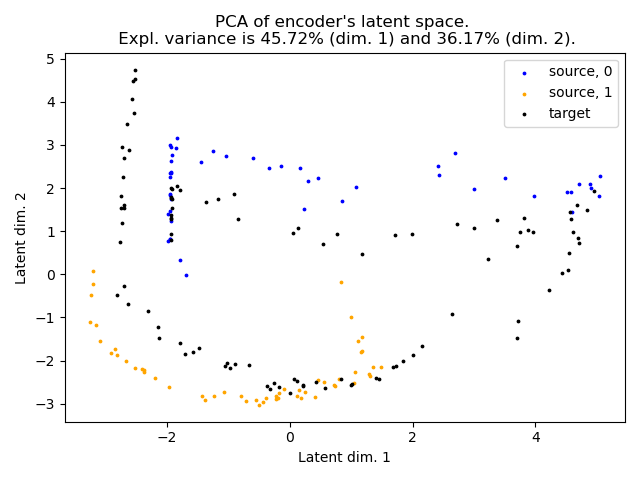
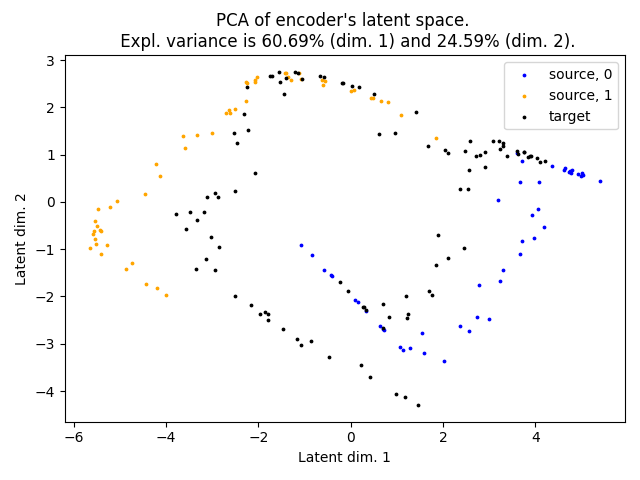
Bug fixes

diff --git a/core.py b/core.py
@@ -39,12 +39,13 @@ def train_src(encoder, classifier, src_data_loader):
 
             # Compute training loss
             loss = criterion(input=y_pred_batch.squeeze(), target=y_true_batch)
-            losses_within_epoch.append(loss.item())
 
             # Backpropagation
             optimizer.zero_grad()
             loss.backward(inputs=optim_params)
             optimizer.step()
+
+            losses_within_epoch.extend([loss.item()] * len(y_true_batch)) # Michiel: let's assume len(y_true_batch) is equal to batch size
         
         losses_across_epochs.append(np.mean(np.array(losses_within_epoch)))
         
@@ -79,14 +80,15 @@ def eval(encoder, classifier, data_loader, print_output: bool = True):
 
             # Predict source samples on classifier
             y_pred_batch = classifier(features).squeeze()
-            y_pred_batch = torch.where(y_pred_batch >= 0.5, 1, 0).to(dtype=torch.float32)
 
             # Compute training loss
             loss = criterion(input=y_pred_batch, target=y_true_batch)
-            losses.append(loss.item())
+            y_pred_batch = torch.where(y_pred_batch >= 0.5, 1, 0).to(dtype=torch.float32)
 
             true_labels.extend(y_true_batch.tolist())
             predicted_labels.extend(y_pred_batch.tolist())
+
+            losses.extend([loss.item()] * len(y_true_batch))
 
     if print_output:
         print(f"\t avg loss = {loss:.6f}, avg acc = {accuracy_score(y_true=true_labels, y_pred=predicted_labels):2%}, ARI = {adjusted_rand_score(labels_true=true_labels, labels_pred=predicted_labels):.4f}")
@@ -134,7 +136,6 @@ def train_src_tgt(encoder, classifier, discriminator, src_data_loader, tgt_data_
             features_src = encoder(X_batch_src) # Extract features using encoder network
             y_pred_batch = classifier(features_src) # Predict source samples on classifier
             classifier_loss = criterion_classifier(input=y_pred_batch.squeeze(), target=y_true_batch_src) # Compute classifier's training loss
-            classifier_losses_within_epoch.append(classifier_loss.item())
             discriminator_pred_src = discriminator(features_src) # Domain predictions
 
             # Target domain data
@@ -153,6 +154,8 @@ def train_src_tgt(encoder, classifier, discriminator, src_data_loader, tgt_data_
             discriminator_loss.backward(inputs=list(discriminator.parameters()), retain_graph=True)
             encoder_loss.backward(inputs=list(encoder.parameters()), retain_graph=True)
             optimizer.step()
+
+            classifier_losses_within_epoch.extend([classifier_loss.item()] * len(y_true_batch_src)) # Let's assume len(y_true_batch) is equal to batch size. This allows for incomplete batches.
         
         classifier_losses_across_epochs.append(np.mean(np.array(classifier_losses_within_epoch)))
         

diff --git a/models.py b/models.py
@@ -30,6 +30,7 @@ class Encoder(torch.nn.Module):
         self.linear2 = torch.nn.Linear(10, 10, dtype=torch.float32)
         self.relu2 = torch.nn.ReLU()
         
+        # Initialise weights
         self.apply(init_weights)
         return
 
@@ -49,6 +50,8 @@ class Classifier(torch.nn.Module):
         # Copied from https://adapt-python.github.io/adapt/examples/Two_moons.html#Network
         self.linear1 = torch.nn.Linear(10, 1, dtype=torch.float32) # Copied from https://adapt-python.github.io/adapt/examples/Two_moons.html#Network
         self.sigmoid = torch.nn.Sigmoid()
+
+        # Initialise weights
         self.apply(init_weights)
         return
 
@@ -72,8 +75,10 @@ class Discriminator(torch.nn.Module):
         self.linear2 = torch.nn.Linear(10, 10, dtype=torch.float32)
         self.relu2 = torch.nn.ReLU()
         self.linear3 = torch.nn.Linear(10, 1, dtype=torch.float32)
-        self.apply(init_weights)
         self.sigmoid = torch.nn.Sigmoid()
+
+        # Initialise weights
+        self.apply(init_weights)
         return
 
 

diff --git a/main.py b/main.py
@@ -53,8 +53,6 @@ def main():
     # Create and initialise the encoder network and the classifier network (no discriminator yet)
     encoder = models.Encoder()
     classifier = models.Classifier()
-    encoder.apply(models.init_weights)
-    classifier.apply(models.init_weights)
 
     # Convert all data to torch.Tensor, such that device and dtype can be set. Next, create dataloaders for batching, shuffling, etc.
     Xs = torch.from_numpy(Xs).to(device='cpu', dtype=torch.float32)
@@ -103,10 +101,7 @@ def main():
     # Create and initialise discriminator (domain classifier)
     encoder = models.Encoder()
     classifier = models.Classifier()
-    encoder.apply(models.init_weights)
-    classifier.apply(models.init_weights)
     discriminator = models.Discriminator()
-    discriminator.apply(models.init_weights)
     
     print(f'Train encoder and classifier using unsupervised DANN for {params.num_epochs} epochs')
     encoder, classifier, discriminator = core.train_src_tgt(encoder, classifier, discriminator, Xs_loader_train, Xt_loader_train)

diff --git a/params.py b/params.py
@@ -6,7 +6,7 @@ Note that these parameters are not optimised well, as this repo is for demonstra
 
 num_epochs = 800 # Copied from https://adapt-python.github.io/adapt/examples/Two_moons.html
 manual_seed = 562
-manual_seed_weight_init = 123
+manual_seed_weight_init = 9 # I admit this seed was a bit cherry-picked to match the ADAPT example
 batch_size = 34
 learning_rate_no_dann = 1e-3 # Copied from https://adapt-python.github.io/adapt/examples/Two_moons.html#Source-Only
 learning_rate_dann = 1e-3

diff --git a/README.md b/README.md
@@ -1,4 +1,4 @@
-# DANN-two-moons-PyTorch
+# Domain Adversarial Neural Network (DANN) Demo in PyTorch: Two Moons
 Demo of an unsupervised domain adversarial neural network (DANN) using the Two Moons synthetic dataset. Implemented in PyTorch, compared to [ADAPT package Two Moons](https://adapt-python.github.io/adapt/examples/Two_moons.html) example to ensure correctness. \
 The hyperparameters were copied from the ADAPT demo. Therefore, these may be suboptimal.
 
@@ -26,8 +26,8 @@ Visualisation of the network without domain adaptation:
 
 The corresponding results on the test set data are (`log.txt`):
 ```
-Source domain test data: avg loss = 0.000000, avg acc = 100.000000%, ARI = 1.0000
-Target domain test data: avg loss = 18.750000, avg acc = 85.000000%, ARI = 0.4849
+Source domain test data: avg loss = 0.004592, avg acc = 100.000000%, ARI = 1.0000
+Target domain test data: avg loss = 1.044985, avg acc = 88.000000%, ARI = 0.5735
 ```
 
 Visualisation of the feature extractor's latent space (encoder) without domain adaptation (through PCA):
@@ -45,8 +45,8 @@ Visualisation of the network with domain adaptation:
 
 The corresponding results on the test set data are (`log.txt`):
 ```
-Source domain test data: avg loss = 0.000000, avg acc = 98.000000%, ARI = 0.9208
-Target domain test data: avg loss = 12.500000, avg acc = 93.000000%, ARI = 0.7370
+Source domain test data: avg loss = 0.019901, avg acc = 100.000000%, ARI = 1.0000
+Target domain test data: avg loss = 0.076041, avg acc = 99.000000%, ARI = 0.9600
 ```
 The hyperparameters were copied from the ADAPT demo. Therefore, these may be suboptimal.
 
